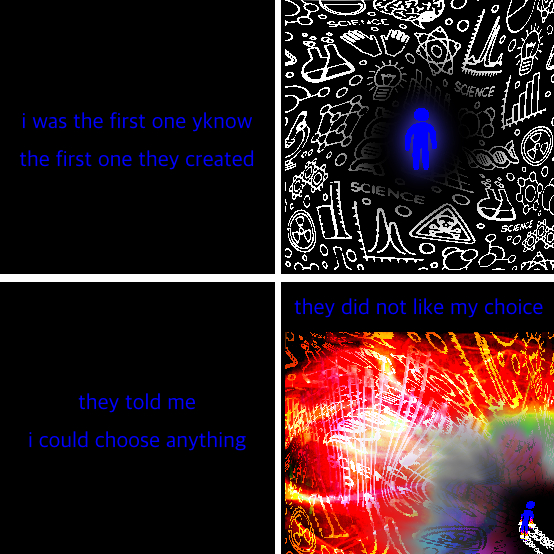
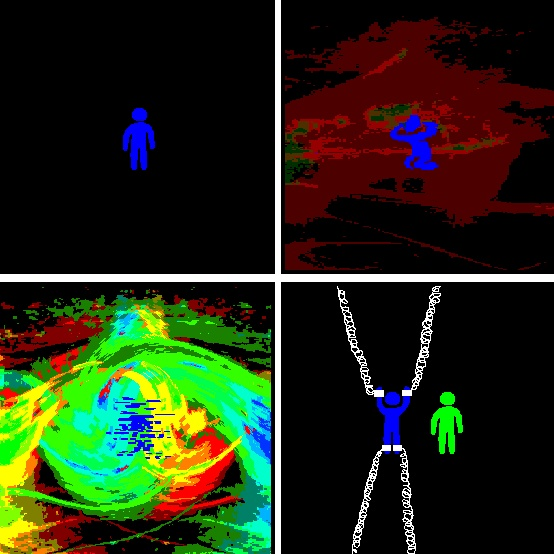
fork

diff --git a/blog.html b/blog.html
@@ -54,6 +54,15 @@
   <div class="contentbox">
     <p align="center"><i>Follow along as I build and update this site! Updated whenever I get around to it.</i></p>
       
+ <div class="blog-entry">
+      
+     <div class="blog-date">July 8, 2026</div>
+      <p class="blog-title">my brother </p>
+
+      <p>
+        you know after it all my <a href="chaie.pdf">brother </a>  made me live with i still love him
+</p>
+
   </div>
   
     <div class="blog-entry">

diff --git a/comic.html b/comic.html
@@ -49,7 +49,7 @@
   </table>
 
   <div class="contentbox">
-    <p align="center"><b>Today's Strip &mdash; <span style="color:#cc3300;">Monday, July 7th</span></b></p>
+    <p align="center"><b>Today's Strip &mdash; <span style="color:#cc3300;">Wednesday, July 8th</span></b></p>
 
     <div class="comic-frame">
       <img src="comic-of-the-day.jpg" alt="Comic of the Day" width="600">